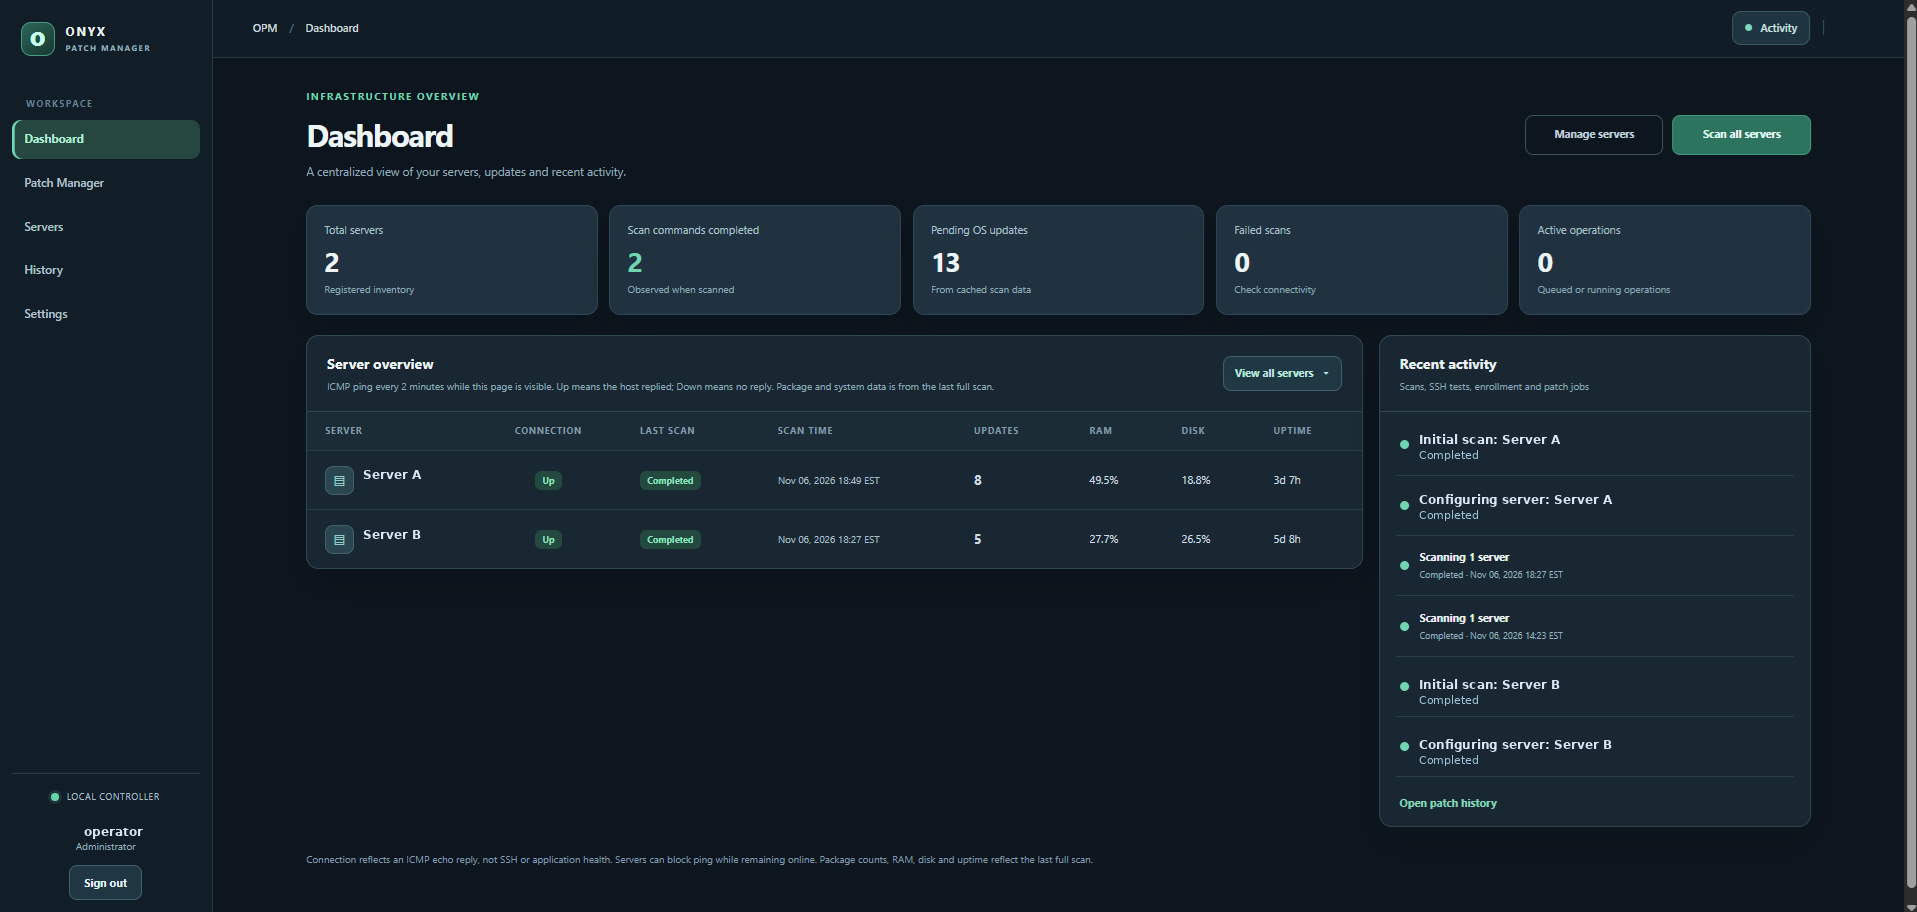
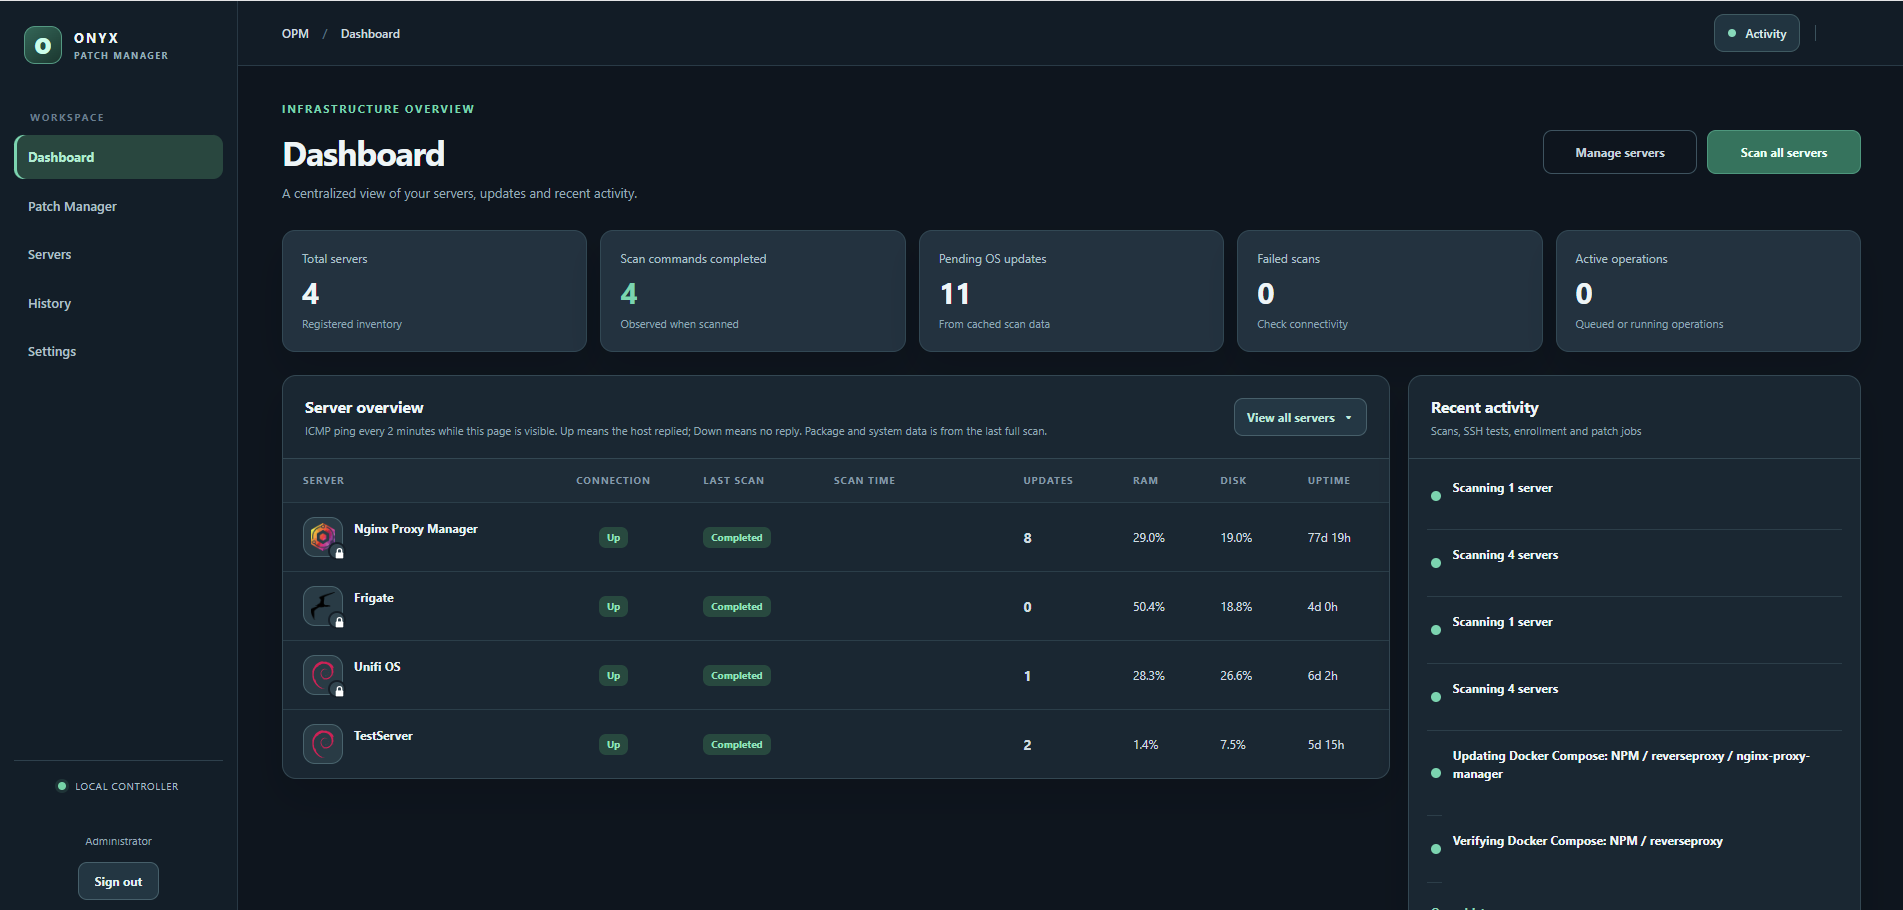
Refresh anonymized dashboard screenshot

diff --git a/README.md b/README.md
@@ -63,7 +63,7 @@ This source archive excludes live controller files, credentials, logs, caches, a
 
 ## Screenshots
 
-These representative interface screenshots are anonymized: server and account names, job identifiers, runtime container identity, exact timestamps, and captured version badges have been removed.
+These representative interface screenshots are privacy-filtered: infrastructure IP addresses, account usernames, exact timestamps, and captured version badges are removed. Dashboard server labels are intentionally retained; names are not treated as credentials.
 
 | Dashboard | Patch Manager |
 |---|---|
